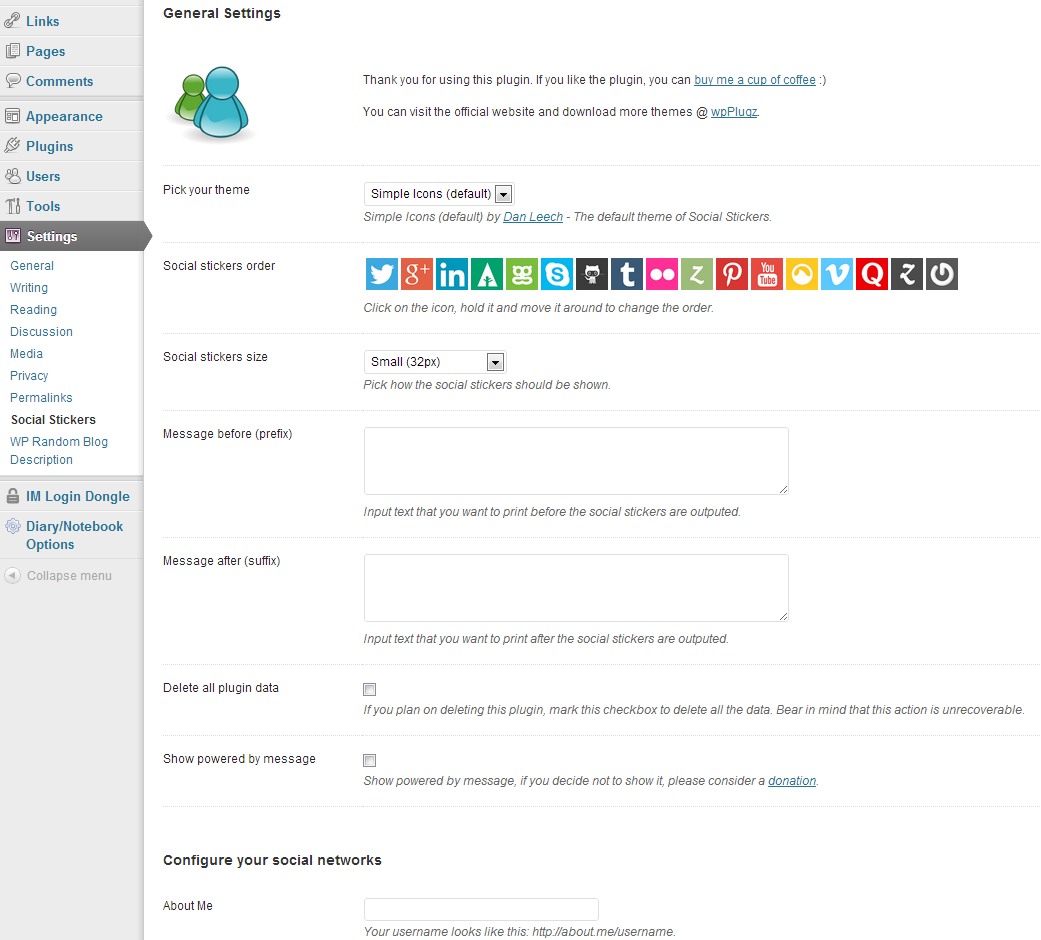
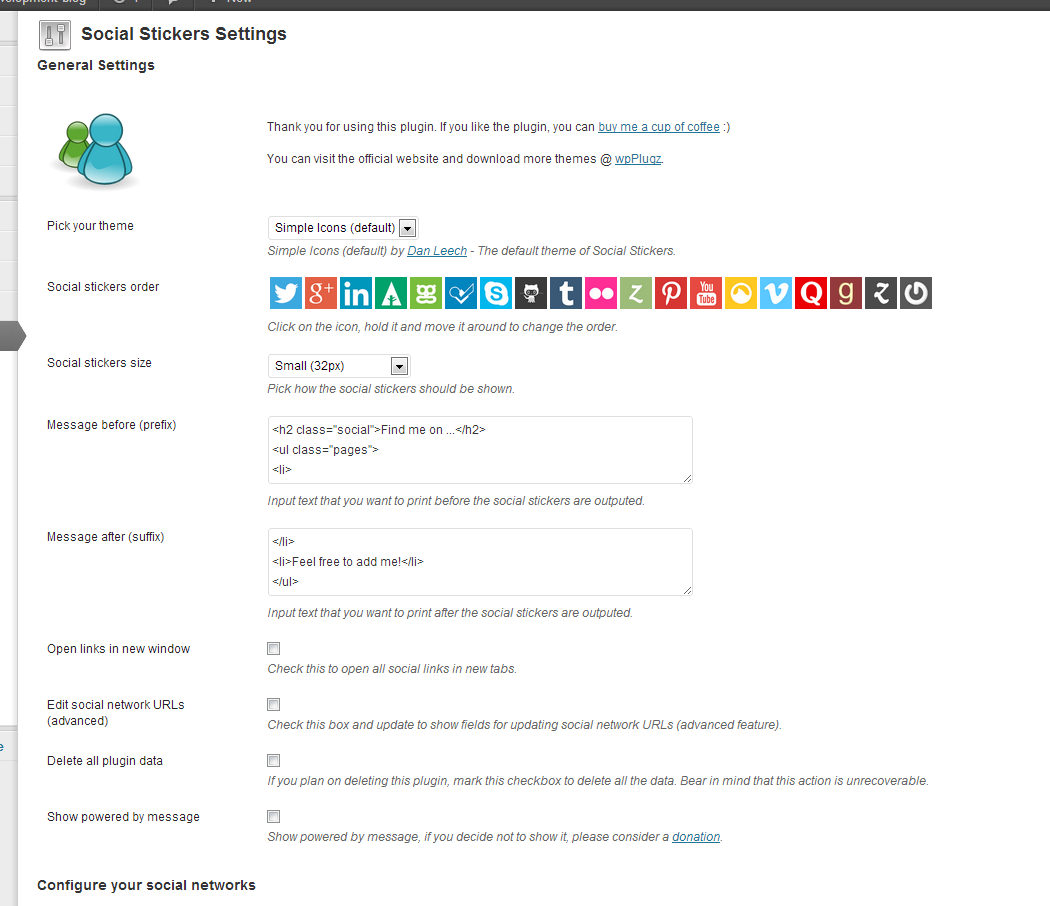
Commited version 1.3.
git-svn-id: https://plugins.svn.wordpress.org/social-stickers/tags/1.3@620774 b8457f37-d9ea-0310-8a92-e5e31aec5664

Changed region(s): [[0.0, 0.0, 1.0, 1.0], [0.3381, 0.989, 0.6455, 1.0]]

diff --git a/social-stickers.php b/social-stickers.php
@@ -4,7 +4,7 @@
 		Plugin Name: Social Stickers
 		Plugin URI: http://wpplugz.is-leet.com
 		Description: A simple plugin that shows the social networks you use.
-		Version: 1.1
+		Version: 1.2
 		Author: Bostjan Cigan
 		Author URI: http://bostjan.gets-it.net
 		License: GPL v2
@@ -27,12 +27,14 @@
 	function social_stickers_install() {
 		
 		$plugin_options = array(
-			'version' => '1.1',
+			'version' => '1.2',
 			'prefix' => '',
 			'suffix' => '',
 			'powered_by_msg' => false,
 			'mode' => 0, // Mode of output - 0 is 32x32 icon, 1 is 64x64 icon, 2 is 128x128 icon, 3 is small icon and text
 			'theme' => 'default',
+			'show_edit_url' => false,
+			'link_new' => false,
 			'theme_stickers_order' => array( // Each theme has its own order of sticker positions
 				"default" => NULL
 			),
@@ -165,8 +167,14 @@
 					'username' => ''
 				),
 				'googleplus' => array(
-					'url' => 'http://gplus.to/[:username]',
+					'url' => 'http://plus.google.com/[:username]',
 					'name' => 'Google+',
+					'active' => false,
+					'username' => ''
+				),
+				'goodreads' => array(
+					'url' => 'http://www.goodreads.com/[:username]',
+					'name' => 'Goodreads',
 					'active' => false,
 					'username' => ''
 				),
@@ -357,7 +365,7 @@
 					'username' => ''
 				),
 				'xing' => array(
-					'url' => 'http://xing.to/[:username]',
+					'url' => 'http://www.xing.com/profile/[:username]',
 					'name' => 'Xing',
 					'active' => false,
 					'username' => ''
@@ -374,11 +382,26 @@
 	
 	}
 
-	function jquery_init_social_stickers() {
-		wp_enqueue_script('jquery');
-		wp_enqueue_script('jquery-ui-core');
-		wp_enqueue_script('jquery-ui-sortable');
-		wp_enqueue_script('jquery-ui-mouse');		
+	function update_social_stickers() {
+		$options = get_option('social_stickers_settings');
+		if($options['version'] == 1.2) {
+			$options['version'] = "1.3";
+			$options['show_edit_url'] = false;
+		}
+		else if($options['version'] < 1.2) {
+			$options['version'] = "1.3";
+			$options['stickers']['goodreads'] = array(
+								'url' => 'http://www.goodreads.com/[:username]',
+								'name' => 'Goodreads',
+								'active' => false,
+								'username' => ''
+								);
+			$options['stickers']['xing']['url'] = "http://www.xing.com/profile/[:username]";
+			$options['stickers']['googleplus']['url'] = "http://plus.google.com/[:username]";
+			$options['link_new'] = false;
+			$options['show_edit_url'] = false;
+			update_option('social_stickers_settings', $options);
+		}
 	}
 
 	// Create the admin menu
@@ -422,12 +445,6 @@
 		
 	}
 
-	function update_social_stickers() {
-		$options = get_option('social_stickers_settings');
-		$options['version'] = "1.1";
-		update_option('social_stickers_settings', $options);
-	}
-
 	// The plugin admin page
 	function social_stickers_settings() {
 
@@ -442,11 +459,15 @@
 			$mode = $_POST['social_stickers_mode'];
 			$prefix = $_POST['prefix'];
 			$suffix = $_POST['suffix'];
+			$link_new = $_POST['link_new'];
+			$show_edit_url = $_POST['show_edit_url'];
 						
 			$options['powered_by_msg'] = (isset($powered_by)) ? true : false;
+			$options['link_new'] = (isset($link_new)) ? true : false;
 			$options['mode'] = intval($mode);
 			$options['prefix'] = $prefix;
 			$options['suffix'] = $suffix;
+			$options['show_edit_url'] = (isset($show_edit_url)) ? true : false;
 			
 			$stickers_order = array();
 			
@@ -473,6 +494,12 @@
 			
 			foreach($options['stickers'] as $key => $data) {
 				$current_sticker = $_POST[$key];
+				if($options['show_edit_url']) {
+					$url = $_POST[$key.'_url'];
+					if(isset($url)) {
+						$options['stickers'][$key]['url'] = $url;						
+					}
+				}
 				if(isset($current_sticker)) {
 					$options['stickers'][$key]['username'] = $current_sticker;
 					if(strlen($current_sticker) > 0 && !in_array($key, $stickers_order)) {
@@ -593,6 +620,20 @@
                         </td>
 					</tr>
 					<tr>
+						<th scope="row">Open links in new window</th>
+						<td>
+                        	<input name="link_new" id="link_new" type="checkbox" <?php if($options['link_new']) { ?> checked="checked" <?php } ?>/>
+                            <br /><span class="description">Check this to open all social links in new tabs.</span>
+                        </td>
+					</tr>
+					<tr>
+						<th scope="row">Edit social network URLs (advanced)</th>
+						<td>
+                        	<input name="show_edit_url" id="show_edit_url" type="checkbox" <?php if($options['show_edit_url']) { ?> checked="checked" <?php } ?>/>
+                            <br /><span class="description">Check this box and update to show fields for updating social network URLs (advanced feature).</span>
+                        </td>
+					</tr>
+					<tr>
 						<th scope="row">Delete all plugin data</th>
 						<td>
                         	<input name="delete_data" id="delete_data" type="checkbox" />
@@ -624,6 +665,12 @@
 							<input type="text" name="<?php echo $name; ?>" value="<?php echo esc_attr(stripslashes($data['username'])); ?>" id="<?php echo $name; ?>" size="40"/>
 							<br />
             				<span class="description">Your username looks like this: <?php echo str_replace(array('[:', ']'), array('', ''), $data['url']); ?>.</span>
+                            <?php if($options['show_edit_url']) { ?>
+                            <br />
+							<input type="text" name="<?php echo $name.'_url'; ?>" value="<?php echo esc_attr(stripslashes($data['url'])); ?>" id="<?php echo $name.'_url'; ?>" size="40"/>
+                            <br />
+                            <span class="description">Customize your <?php echo $data['name']; ?> profile URL.</span>
+                            <?php } ?>
 						</td>
 					</tr>
 <?php 
@@ -679,8 +726,6 @@
 			}
 		}
 		
-		
-		
 		foreach($stickers as $key) {
 			$data = $options['stickers'][$key];
 			$file = plugin_dir_path(__FILE__).'themes/'.$options['theme'].'/'.$key.'.png';
@@ -695,17 +740,37 @@
 							$output = $output.'<div id="social_'.$key.'" style="margin-left: 3px; float: left;"> <a href="'.$social_url.'" title="'.$data['name'].'"><img src="'.$file_url.'" height="32px" width="32px" /></a></div>';
 						}
 						else {
-							$output = $output.' <a href="'.$social_url.'" title="'.$data['name'].'"><img src="'.$file_url.'" height="32px" width="32px" /></a>';							
+							if($options['link_new']) {
+								$output = $output.' <a href="'.$social_url.'" title="'.$data['name'].'" target="_blank"><img src="'.$file_url.'" height="32px" width="32px" /></a>';
+							}
+							else {
+								$output = $output.' <a href="'.$social_url.'" title="'.$data['name'].'"><img src="'.$file_url.'" height="32px" width="32px" /></a>';
+							}							
 						}
 					break;
 					case 1:
-						$output = $output.' <a href="'.$social_url.'" title="'.$data['name'].'"><img src="'.$file_url.'" height="64px" width="64px" /></a>';
+						if($options['link_new']) {
+							$output = $output.' <a href="'.$social_url.'" title="'.$data['name'].'" target="_blank"><img src="'.$file_url.'" height="64px" width="64px" /></a>';
+						}
+						else {
+							$output = $output.' <a href="'.$social_url.'" title="'.$data['name'].'"><img src="'.$file_url.'" height="64px" width="64px" /></a>';
+						}							
 					break;
 					case 2:
-						$output = $output.' <a href="'.$social_url.'" title="'.$data['name'].'"><img src="'.$file_url.'" height="128px" width="128px" /></a>';
+						if($options['link_new']) {
+							$output = $output.' <a href="'.$social_url.'" title="'.$data['name'].'" target="_blank"><img src="'.$file_url.'" height="128px" width="128px" /></a>';
+						}
+						else {
+							$output = $output.' <a href="'.$social_url.'" title="'.$data['name'].'"><img src="'.$file_url.'" height="128px" width="128px" /></a>';
+						}							
 					break;	
 					case 3:
-						$output = $output.'<img src="'.$file_url.'" height="16px" width="16px" alt="'.$data['name'].'" /> <a href="'.$social_url.'">'.$data['name'].'</a><br />';
+						if($options['link_new']) {
+							$output = $output.'<img src="'.$file_url.'" height="16px" width="16px" alt="'.$data['name'].'" /> <a href="'.$social_url.'" target="_blank">'.$data['name'].'</a><br />';
+						}
+						else {
+							$output = $output.'<img src="'.$file_url.'" height="16px" width="16px" alt="'.$data['name'].'" /> <a href="'.$social_url.'">'.$data['name'].'</a><br />';
+						}							
 					break;	
 				}
 			}
